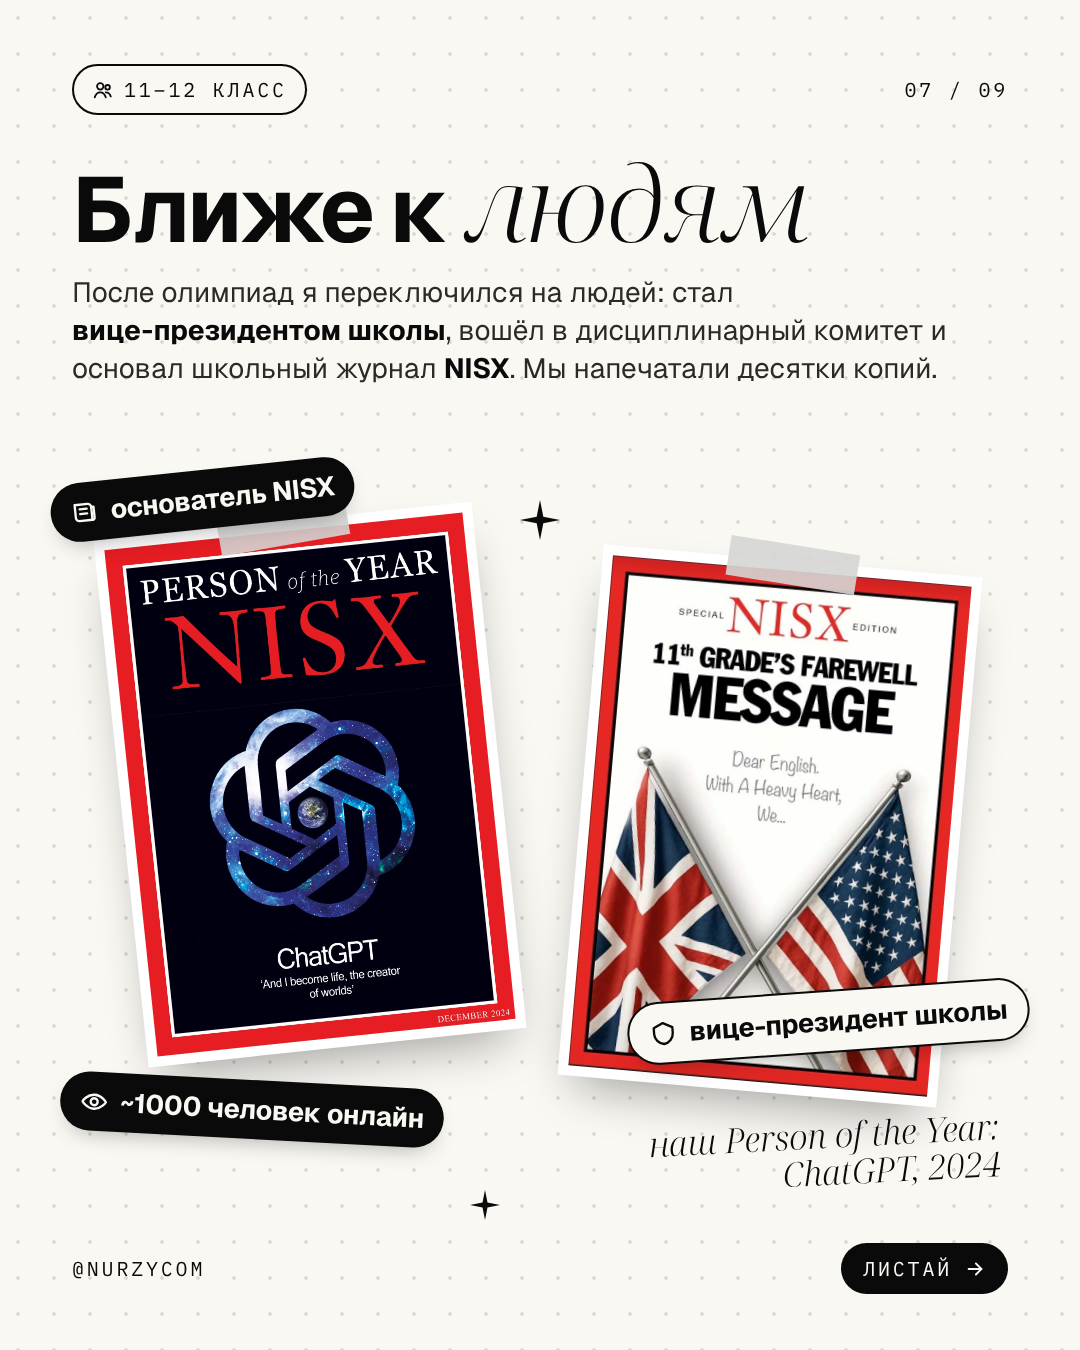
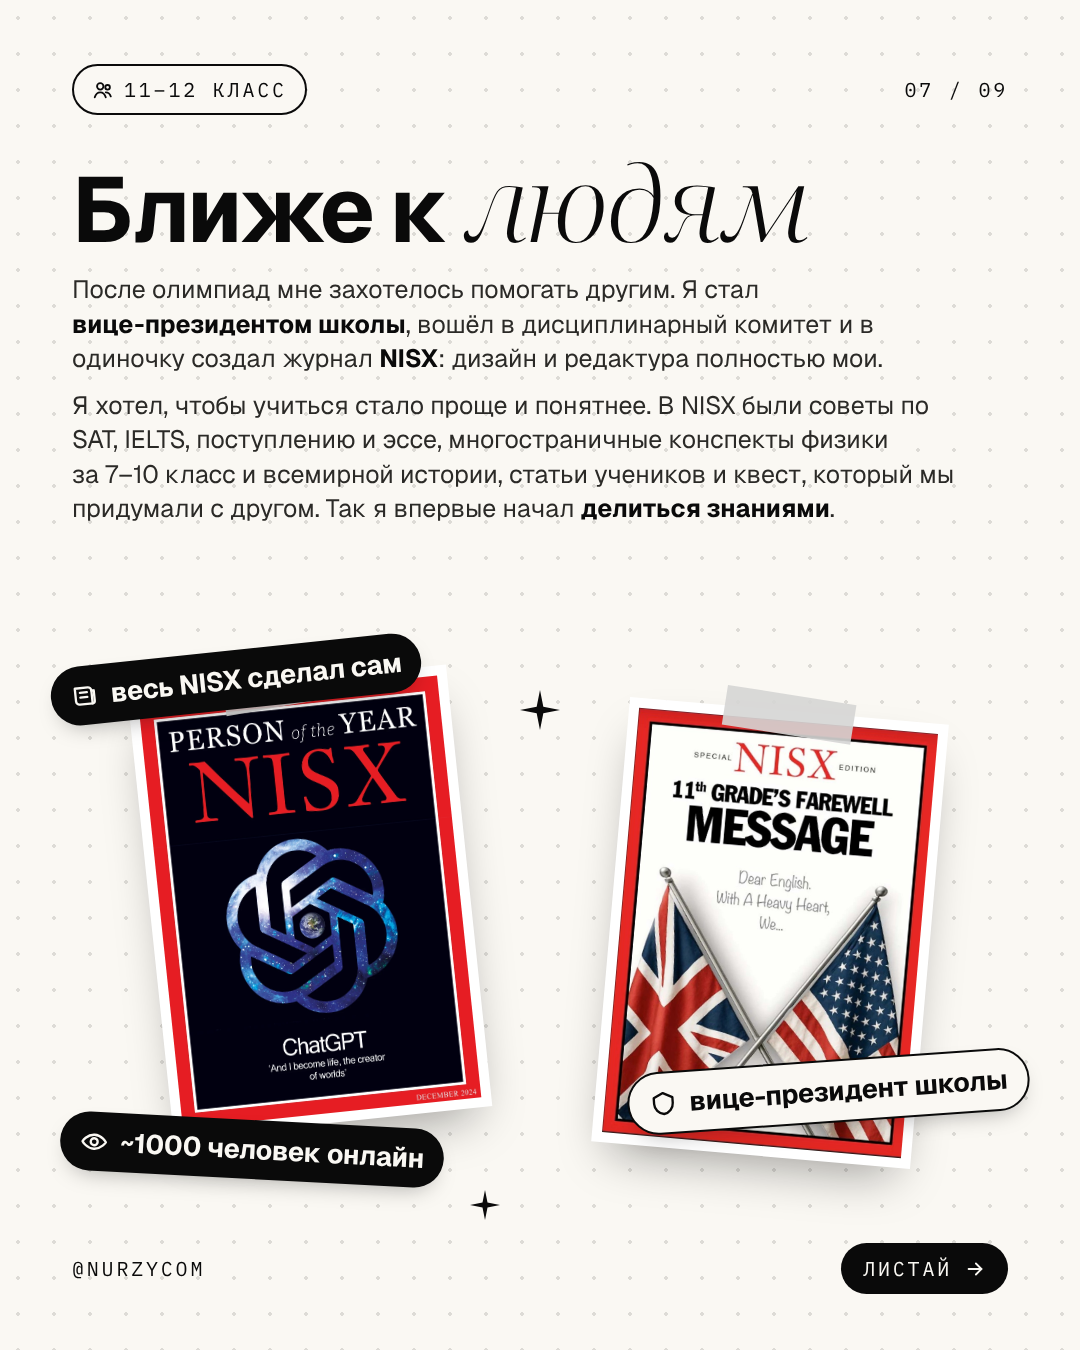
Story slide 7: expand NISX story around helping others
Claude-Session: https://claude.ai/code/session_01EUKBNPzc7y2DXSfnei23HU

Changed region(s): [[0.0306, 0.1867, 0.9472, 0.9022], [0.4889, 0.4978, 0.5194, 0.5289]]

diff --git a/social/story/slide-07.html b/social/story/slide-07.html
@@ -61,20 +61,21 @@
   .swipe { display: inline-flex; align-items: center; gap: 12px; padding: 12px 22px; background: var(--ink); color: var(--paper); border-radius: 999px; }
   svg.i { fill: none; stroke: currentColor; stroke-width: 2; stroke-linecap: round; stroke-linejoin: round; }
   .text { position: absolute; left: 72px; right: 72px; top: 150px; }
-  .text .sub { max-width: 50ch; font-size: 28px; }
+  .text .sub { max-width: 54ch; font-size: 25px; line-height: 1.38; margin-top: 12px; }
+  .text h1 + .sub { margin-top: 16px; }
   .doc { position: absolute; background: #fff; padding: 10px; box-shadow: 0 24px 50px -18px rgba(10,10,10,.4); }
   .doc img { display: block; width: 100%; }
-  .d1 { left: 120px; top: 520px; width: 380px; transform: rotate(-6deg); }
-  .d2 { right: 120px; top: 560px; width: 380px; transform: rotate(5deg); }
+  .d1 { left: 150px; top: 680px; width: 320px; transform: rotate(-6deg); }
+  .d2 { right: 150px; top: 710px; width: 320px; transform: rotate(5deg); }
   .d1 .tape { top: -16px; left: 50%; transform: translateX(-50%) rotate(-4deg); }
   .d2 .tape { top: -16px; left: 50%; transform: translateX(-50%) rotate(4deg); }
   .sticker { z-index: 3; font-size: 27px; padding: 12px 20px; }
   .sticker svg { width: 28px; height: 28px; }
-  .s1 { top: 470px; left: 50px; right: auto; transform: rotate(-6deg); }
-  .s2 { top: 1080px; left: 60px; right: auto; transform: rotate(3deg); }
-  .s3 { top: 990px; right: 50px; transform: rotate(-4deg); }
-  .note { position: absolute; z-index: 3; top: 1120px; right: 80px; font: 300 italic 34px/1.1 var(--serif); transform: rotate(-3deg); text-align: right; }
-  .sp1 { top: 500px; right: 90px; z-index: 3; }
+  .s1 { top: 650px; left: 50px; right: auto; transform: rotate(-6deg); }
+  .s2 { top: 1120px; left: 60px; right: auto; transform: rotate(3deg); }
+  .s3 { top: 1060px; right: 50px; transform: rotate(-4deg); }
+  .note { position: absolute; z-index: 3; top: 1150px; right: 80px; display: none; font: 300 italic 34px/1.1 var(--serif); transform: rotate(-3deg); text-align: right; }
+  .sp1 { top: 690px; right: 90px; z-index: 3; }
   .sp2 { top: 1190px; left: 470px; width: 30px; height: 30px; }
 </style>
 </head>
@@ -87,13 +88,14 @@
 
   <div class="text">
     <h1>Ближе к <em>людям</em></h1>
-    <p class="sub">После олимпиад я переключился на людей: стал <b>вице&#8209;президентом школы</b>, вошёл в дисциплинарный комитет и основал школьный журнал <b>NISX</b>. Мы напечатали десятки копий.</p>
+    <p class="sub">После олимпиад мне захотелось помогать другим. Я стал <b>вице&#8209;президентом школы</b>, вошёл в дисциплинарный комитет и в одиночку создал журнал <b>NISX</b>: дизайн и редактура полностью мои.</p>
+    <p class="sub">Я хотел, чтобы учиться стало проще и понятнее. В NISX были советы по SAT, IELTS, поступлению и эссе, многостраничные конспекты физики <span style="white-space:nowrap">за 7–10 класс</span> и всемирной истории, статьи учеников и квест, который мы придумали с другом. Так я впервые начал <b>делиться знаниями</b>.</p>
   </div>
 
   <div class="doc d1"><span class="tape"></span><img src="../assets/story-07-nisx-poty.jpg" alt=""></div>
   <div class="doc d2"><span class="tape"></span><img src="../assets/story-07-nisx-farewell.jpg" alt=""></div>
 
-  <span class="sticker s-dark s1"><svg class="i" viewBox="0 0 24 24"><path d="M4 5h11a3 3 0 0 1 3 3v11H7a3 3 0 0 1-3-3z"/><path d="M18 8h2v9a2 2 0 0 1-2 2"/><path d="M8 9h6M8 13h6"/></svg>основатель NISX</span>
+  <span class="sticker s-dark s1"><svg class="i" viewBox="0 0 24 24"><path d="M4 5h11a3 3 0 0 1 3 3v11H7a3 3 0 0 1-3-3z"/><path d="M18 8h2v9a2 2 0 0 1-2 2"/><path d="M8 9h6M8 13h6"/></svg>весь NISX сделал сам</span>
   <span class="sticker s-dark s2"><svg class="i" viewBox="0 0 24 24"><path d="M2 12s3.5-6 10-6 10 6 10 6-3.5 6-10 6S2 12 2 12z"/><circle cx="12" cy="12" r="3"/></svg>~1000 человек онлайн</span>
   <span class="sticker s-light s3"><svg class="i" viewBox="0 0 24 24"><path d="M12 3l8 4v5c0 4.5-3.4 8.3-8 9-4.6-.7-8-4.5-8-9V7z"/></svg>вице-президент школы</span>
 
